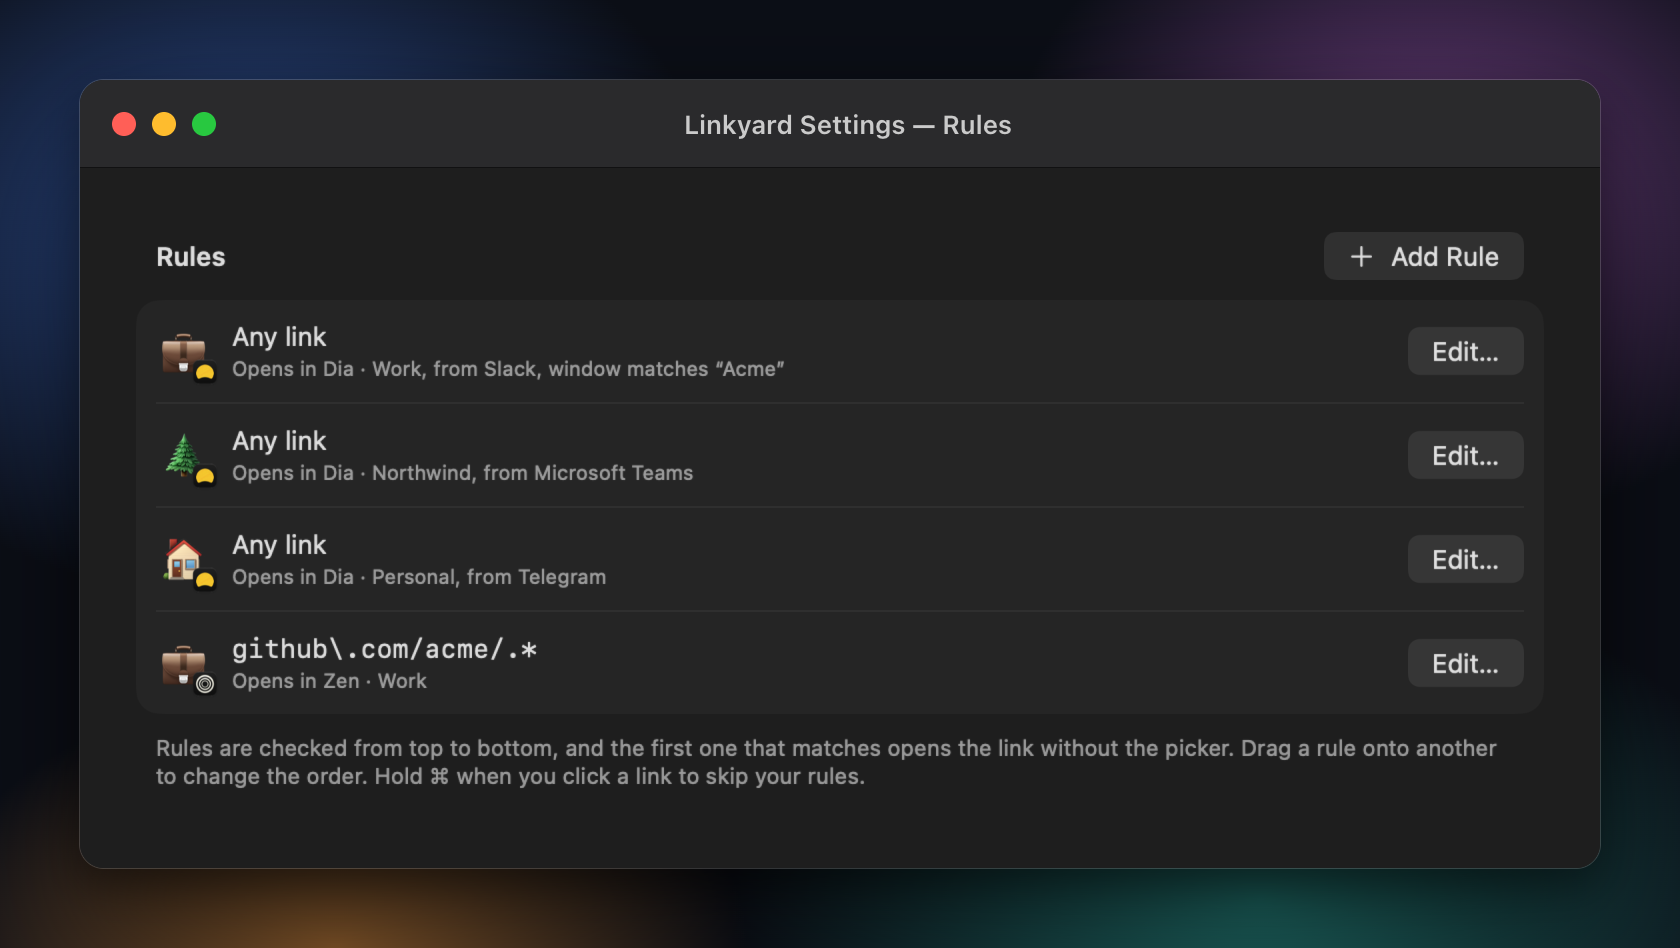
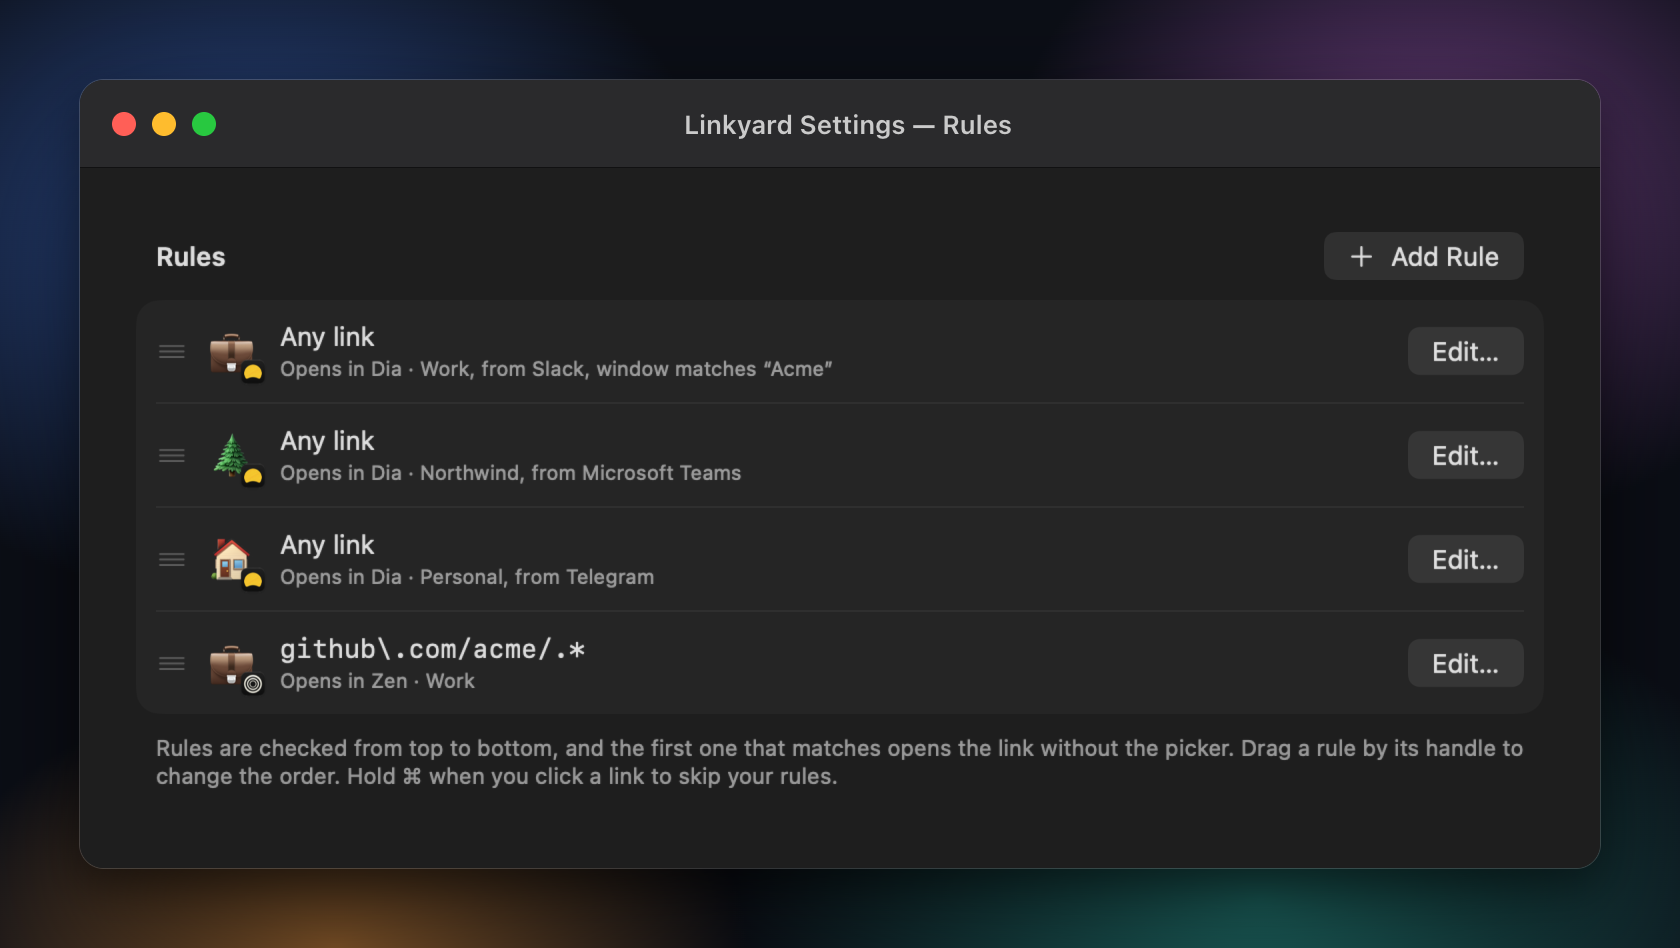
feat: drag handle and live reordering for rules and browsers

diff --git a/Browserino/Extensions/View+Reorderable.swift b/Browserino/Extensions/View+Reorderable.swift
@@ -3,38 +3,98 @@
 //  Browserino
 //
 
+import AppKit
 import SwiftUI
+import UniformTypeIdentifiers
 
-private let reorderPrefix = "linkyard-row:"
+private extension UTType {
+    /// Declared in Info.plist; a drag of another type, like text from another app, never reorders rows.
+    static let settingsRow = UTType(exportedAs: "io.github.jravolio.Linkyard.settings-row")
+}
 
 extension View {
-    /// Rows in a grouped Form can't use `onMove`, so a row is dragged onto another to take its place.
+    /// Rows in a grouped Form can't use `onMove`, so a dragged row moves into each row it passes over,
+    /// and the list shows the new order before it's dropped.
     /// VoiceOver and keyboard users get Move Up and Move Down actions instead of dragging.
-    func reorderable(at index: Int, count: Int, move: @escaping (_ from: Int, _ to: Int) -> Void) -> some View {
-        accessibilityElement(children: .contain)
-            .accessibilityAction(named: "Move Up") {
-                if index > 0 {
-                    move(index, index - 1)
-                }
-            }
-            .accessibilityAction(named: "Move Down") {
-                if index < count - 1 {
-                    move(index, index + 1)
-                }
-            }
-            .draggable("\(reorderPrefix)\(index)")
-            .dropDestination(for: String.self) { items, _ in
-                guard let item = items.first,
-                      item.hasPrefix(reorderPrefix),
-                      let from = Int(item.dropFirst(reorderPrefix.count)),
-                      from != index
-                else {
-                    return false
-                }
+    func reorderable(at index: Int, count: Int, draggedRow: Binding<Int?>, move: @escaping (_ from: Int, _ to: Int) -> Void) -> some View {
+        modifier(Reorderable(index: index, count: count, draggedRow: draggedRow, move: move))
+    }
+}
 
-                move(from, index)
-                return true
+private struct Reorderable: ViewModifier {
+    let index: Int
+    let count: Int
+    @Binding var draggedRow: Int?
+    let move: (_ from: Int, _ to: Int) -> Void
+
+    @State private var height: CGFloat = 0
+
+    func body(content: Content) -> some View {
+        HStack(spacing: 8) {
+            Image(systemName: "line.3.horizontal")
+                .foregroundStyle(.tertiary)
+                .accessibilityHidden(true)
+            content
+        }
+        .opacity(draggedRow == index ? 0.4 : 1)
+        .accessibilityElement(children: .contain)
+        .accessibilityAction(named: "Move Up") {
+            if index > 0 {
+                move(index, index - 1)
             }
+        }
+        .accessibilityAction(named: "Move Down") {
+            if index < count - 1 {
+                move(index, index + 1)
+            }
+        }
+        .onDrag {
+            draggedRow = index
+            let provider = NSItemProvider()
+            provider.registerDataRepresentation(forTypeIdentifier: UTType.settingsRow.identifier, visibility: .all) { completion in
+                completion(Data(), nil)
+                return nil
+            }
+            return provider
+        }
+        .onGeometryChange(for: CGFloat.self) { $0.size.height } action: { height = $0 }
+        .onDrop(of: [.settingsRow], delegate: RowDropDelegate(index: index, height: height, draggedRow: $draggedRow, move: move))
+        .onHover { _ in
+            // A drag let go outside the rows never drops, so its row stays faded until the pointer comes back.
+            if draggedRow != nil && NSEvent.pressedMouseButtons == 0 {
+                draggedRow = nil
+            }
+        }
+    }
+}
+
+private struct RowDropDelegate: DropDelegate {
+    let index: Int
+    let height: CGFloat
+    @Binding var draggedRow: Int?
+    let move: (_ from: Int, _ to: Int) -> Void
+
+    func dropUpdated(info: DropInfo) -> DropProposal? {
+        if let from = draggedRow, RowReorder.shouldMove(from: from, to: index, y: info.location.y, height: height) {
+            withAnimation(NSWorkspace.shared.accessibilityDisplayShouldReduceMotion ? nil : .easeOut(duration: 0.15)) {
+                move(from, index)
+            }
+            draggedRow = index
+        }
+        return DropProposal(operation: .move)
+    }
+
+    func performDrop(info: DropInfo) -> Bool {
+        draggedRow = nil
+        return true
+    }
+}
+
+enum RowReorder {
+    /// Whether the row dragged from `from` takes the place of row `to`, with the pointer `y` points down that `height`-point row.
+    /// Only past the row's middle: moving on entry swaps rows of different heights back and forth, since the taller one ends up under the pointer again.
+    static func shouldMove(from: Int, to: Int, y: CGFloat, height: CGFloat) -> Bool {
+        from != to && (from < to ? y > height / 2 : y < height / 2)
     }
 }
 

diff --git a/LinkyardTests/LinkyardTests.swift b/LinkyardTests/LinkyardTests.swift
@@ -575,6 +575,51 @@ final class ReorderTests: XCTestCase {
         rules.move(from: 1, to: 0)
         XCTAssertEqual(rules, ["a", "b"])
     }
+
+    func testAMovedRowLandsOnTheRowItEntered() {
+        let original = ["a", "b", "c", "d"]
+        for from in original.indices {
+            for to in original.indices where to != from {
+                var rules = original
+                rules.move(from: from, to: to)
+                XCTAssertEqual(rules[to], original[from], "from \(from) to \(to)")
+            }
+        }
+    }
+
+    func testRowsOfDifferentHeightsDoNotSwapBackAndForthUnderThePointer() {
+        let heights: [String: CGFloat] = ["a": 44, "b": 58, "c": 44]
+        var rules = ["a", "b", "c"]
+        var dragged = 0
+        var moves = 0
+        // SwiftUI sends a drop update on every pointer move, so each position is checked twice, as a still pointer would be.
+        for y in stride(from: CGFloat(1), to: 146, by: 1) {
+            for _ in 0..<2 {
+                var top: CGFloat = 0
+                guard let row = rules.indices.first(where: { top += heights[rules[$0]]!; return y < top }) else {
+                    continue
+                }
+                let height = heights[rules[row]]!
+                if RowReorder.shouldMove(from: dragged, to: row, y: y - (top - height), height: height) {
+                    rules.move(from: dragged, to: row)
+                    dragged = row
+                    moves += 1
+                }
+            }
+        }
+        XCTAssertEqual(rules, ["b", "c", "a"])
+        XCTAssertEqual(moves, 2)
+    }
+
+    func testDraggingDownPastRowsAndBackUpLeavesTheRowWhereThePointerStops() {
+        var rules = ["a", "b", "c", "d"]
+        var dragged = 0
+        for entered in [1, 2, 3, 1] {
+            rules.move(from: dragged, to: entered)
+            dragged = entered
+        }
+        XCTAssertEqual(rules, ["b", "a", "c", "d"])
+    }
 }
 
 final class DiaAppleEventsTests: XCTestCase {

diff --git a/Browserino/Views/Preferences/RulesTab.swift b/Browserino/Views/Preferences/RulesTab.swift
@@ -45,6 +45,7 @@ struct RulesTab: View {
     @AppStorage("zenProfiles") private var zenProfiles: [ChromeProfile] = []
 
     @State private var editor: ListEditor?
+    @State private var draggedRow: Int?
     @State private var accessibilityGranted: Bool?
     @Environment(\.openSettingsItem) private var openSettingsItem
 
@@ -110,7 +111,7 @@ struct RulesTab: View {
                             rules.remove(at: index)
                         }
                     }
-                    .reorderable(at: index, count: rules.count) { rules.move(from: $0, to: $1) }
+                    .reorderable(at: index, count: rules.count, draggedRow: $draggedRow) { rules.move(from: $0, to: $1) }
                     .settingsItem(SettingsItemID.rule(index))
                 }
             } header: {
@@ -125,7 +126,7 @@ struct RulesTab: View {
                     .settingsItem("rules.add")
                 }
             } footer: {
-                Text("Rules are checked from top to bottom, and the first one that matches opens the link without the picker. Drag a rule onto another to change the order. Hold ⌘ when you click a link to skip your rules.")
+                Text("Rules are checked from top to bottom, and the first one that matches opens the link without the picker. Drag a rule by its handle to change the order. Hold ⌘ when you click a link to skip your rules.")
             }
         }
         .onAppear(perform: refreshAccessibility)

diff --git a/Browserino/Views/Preferences/BrowsersTab.swift b/Browserino/Views/Preferences/BrowsersTab.swift
@@ -12,6 +12,8 @@ struct BrowsersTab: View {
     @AppStorage("hiddenBrowsers") private var hiddenBrowsers: [URL] = []
     @AppStorage("privateArgs") private var privateArgs: [String: String] = [:]
 
+    @State private var draggedRow: Int?
+
     private func isVisible(_ browser: URL) -> Binding<Bool> {
         Binding(
             get: { !hiddenBrowsers.contains(browser) },
@@ -58,7 +60,7 @@ struct BrowsersTab: View {
                                 .toggleStyle(.switch)
                                 .controlSize(.small)
                         }
-                        .reorderable(at: index, count: shown.count) { moveShown(shown, from: $0, to: $1) }
+                        .reorderable(at: index, count: shown.count, draggedRow: $draggedRow) { moveShown(shown, from: $0, to: $1) }
                         .settingsItem(SettingsItemID.browser(browser))
                     }
                 }
@@ -73,7 +75,7 @@ struct BrowsersTab: View {
                     .settingsItem("browsers.rescan")
                 }
             } footer: {
-                Text("The picker shows browsers in this order; drag a browser onto another to move it there. Switch a browser off to hide it from the picker.")
+                Text("The picker shows browsers in this order; drag a browser by its handle to move it. Switch a browser off to hide it from the picker.")
             }
 
             Section {

diff --git a/ARCHITECTURE.md b/ARCHITECTURE.md
@@ -28,6 +28,8 @@ Any other browser opens the link with `NSWorkspace`, optionally with its private
 
 The Settings window (`PreferencesView`) is a sidebar of panes (`SettingsPane`) with grouped forms. Search covers both the settings and what the user set up (`SettingsSearch`); opening a result switches pane and scrolls to the row marked with the same `settingsItem` ID.
 
+Rules and browsers reorder by drag (`View.reorderable`): the pane holds the dragged row's index, and the row moves into each row the pointer enters, so the list shows the new order before the drop. The drag carries `io.github.jravolio.Linkyard.settings-row`, declared in Info.plist, so other drags never reorder rows. VoiceOver gets Move Up and Move Down instead.
+
 Everything lives in `UserDefaults` through `@AppStorage`; arrays and dictionaries are stored as JSON strings (`Extensions/Array+RawRepresentable.swift`). Profile logos are copied as 256px PNGs to `~/Library/Application Support/Linkyard/ProfileIcons` and cached in memory (`ProfileImageCache`). Browser icons in the picker are rendered once per size, screen scale and appearance (`AppIconCache`), since Icon Services renders them over XPC on every draw. On first launch Linkyard copies an existing Browserino setup from the `xyz.alexstrnik.Browserino` defaults domain.
 
 ## Updates

diff --git a/CHANGELOG.md b/CHANGELOG.md
@@ -2,6 +2,11 @@
 
 Linkyard is a modified version of [Browserino](https://github.com/AlexStrNik/Browserino) by Aleksandr Strizhnev, released under the same GPL-3.0 license. This file lists what Linkyard changed.
 
+## Unreleased
+
+### Changed
+- Rules and browsers in Settings have a drag handle, and while you drag one the list reorders under the pointer, so you see the new order before you let go.
+
 ## 1.3.0 - 2026-10-23
 
 ### Added
